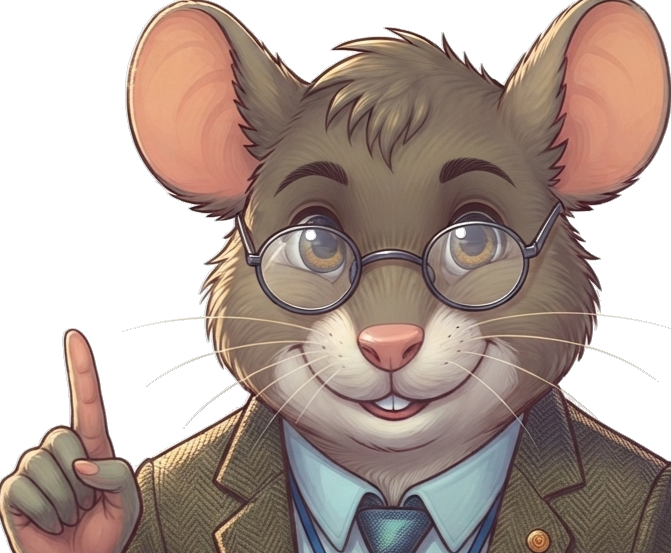
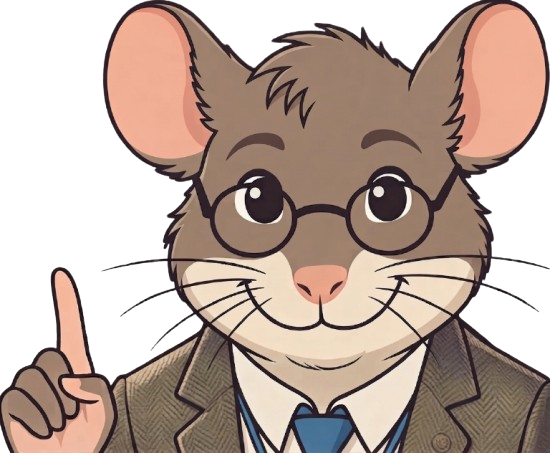
retoques

diff --git a/app/chat.py b/app/chat.py
@@ -16,6 +16,32 @@ from docx import Document as DocxDocument
 PROJECT_ROOT = Path(__file__).resolve().parents[1]
 CONFIG_FILE = PROJECT_ROOT / "app" / "user_config.json"
 USER_AVATAR_PATH = PROJECT_ROOT / "app" / "user_avatar.png"
+HISTORY_DIR = PROJECT_ROOT / "app" / "historial"
+HISTORY_DIR.mkdir(exist_ok=True)
+
+def save_conversation(conv_id, messages):
+    """Guarda una conversación en un archivo JSON."""
+    file_path = HISTORY_DIR / f"{conv_id}.json"
+    with open(file_path, "w", encoding="utf-8") as f:
+        json.dump(messages, f, ensure_ascii=False, indent=4)
+
+def load_conversation(conv_id):
+    """Carga una conversación desde un archivo JSON."""
+    file_path = HISTORY_DIR / f"{conv_id}.json"
+    if file_path.exists():
+        with open(file_path, "r", encoding="utf-8") as f:
+            return json.load(f)
+    return []
+
+def list_conversations():
+    """Lista los IDs de las conversaciones guardadas."""
+    return sorted([f.stem for f in HISTORY_DIR.glob("*.json")], reverse=True)
+
+def delete_conversation(conv_id):
+    """Elimina una conversación guardada."""
+    file_path = HISTORY_DIR / f"{conv_id}.json"
+    if file_path.exists():
+        file_path.unlink()
 
 def save_user_profile(profile):
     """Guarda el perfil del usuario en un archivo JSON local."""
@@ -307,6 +333,24 @@ def main():
             fill: var(--accent) !important;
         }
 
+        /* AVATARES MÁS GRANDES */
+        [data-testid="stChatMessageAvatar"] {
+            width: 80px !important;
+            height: 80px !important;
+            border-radius: 12px !important;
+            background: var(--bg-card) !important;
+            border: 1px solid var(--border) !important;
+        }
+        [data-testid="stChatMessageAvatar"] img, [data-testid="stChatMessageAvatar"] div {
+            width: 80px !important;
+            height: 80px !important;
+            object-fit: cover !important;
+        }
+        [data-testid="stChatMessage"] {
+            padding-top: 2rem !important;
+            padding-bottom: 2rem !important;
+        }
+
         /* Contenedores y Layout */
         [data-testid="stAppViewContainer"] { height: 100vh; overflow: hidden; }
         .main .block-container {
@@ -370,12 +414,14 @@ def main():
     if "messages" not in st.session_state or not st.session_state.messages:
         st.session_state.messages = [{
             "role": "assistant",
-            "content": "✨ ¡Hola! Soy tu Asistente SMR Krayon. Recuerda: *'La mejor forma de predecir el futuro es inventándolo'*. Estoy aquí para ayudarte a dominar tus apuntes. ¿Por dónde empezamos hoy? 🚀"
+            "content": "✨ ¡Hola! Soy tu Well, Actually. Recuerda: *'La mejor forma de predecir el futuro es inventándolo'*. Estoy aquí para ayudarte a dominar tus apuntes. ¿Por dónde empezamos hoy? 🚀"
         }]
 
     if "active_mentions" not in st.session_state: st.session_state.active_mentions = []
     if "active_tab" not in st.session_state: st.session_state.active_tab = "explorer"
     if "chat_key" not in st.session_state: st.session_state.chat_key = 0
+    if "current_conv_id" not in st.session_state:
+        st.session_state.current_conv_id = time.strftime("%Y%m%d_%H%M%S")
 
     # Perfil del usuario persistente
     if "user_profile" not in st.session_state:
@@ -404,6 +450,7 @@ def main():
         col_i, col_c = st.columns([1.2, 3.8])
         with col_i:
             if st.button("📁", key="b1", help="Explorador"): st.session_state.active_tab = "explorer"
+            if st.button("💬", key="b_chat", help="Historial"): st.session_state.active_tab = "history"
             if st.button("⚙", key="b2", help="Sistema"): st.session_state.active_tab = "system"
             if st.button("👤", key="b3", help="Perfil"): st.session_state.active_tab = "profile"
             st.markdown("<br><br>", unsafe_allow_html=True)
@@ -419,6 +466,38 @@ def main():
                             st.session_state.active_mentions = [f"@{f}"]
                 else:
                     st.caption("Carpeta vacía")
+
+            elif st.session_state.active_tab == "history":
+                st.markdown("💬 **HISTORIAL**")
+                if st.button("➕ Nueva Conversación", use_container_width=True):
+                    st.session_state.current_conv_id = time.strftime("%Y%m%d_%H%M%S")
+                    st.session_state.messages = [{
+                        "role": "assistant",
+                        "content": "✨ ¡Hola! Nueva conversación iniciada. ¿En qué puedo ayudarte?"
+                    }]
+                    st.session_state.chat_key += 1
+                    st.rerun()
+
+                st.divider()
+                convs = list_conversations()
+                if convs:
+                    for c_id in convs:
+                        col_text, col_del = st.columns([0.8, 0.2])
+                        # Formatear fecha para mostrar
+                        display_name = c_id.replace("_", " ")
+                        if col_text.button(f" {display_name}", key=f"conv_{c_id}", use_container_width=True):
+                            st.session_state.current_conv_id = c_id
+                            st.session_state.messages = load_conversation(c_id)
+                            st.session_state.chat_key += 1
+                            st.rerun()
+                        if col_del.button("🗑", key=f"del_{c_id}"):
+                            delete_conversation(c_id)
+                            if st.session_state.current_conv_id == c_id:
+                                st.session_state.current_conv_id = time.strftime("%Y%m%d_%H%M%S")
+                                st.session_state.messages = []
+                            st.rerun()
+                else:
+                    st.caption("No hay chats guardados.")
 
             elif st.session_state.active_tab == "profile":
                 st.markdown("👤 **MI PERFIL**")
@@ -534,12 +613,24 @@ def main():
 
             if query:
                 st.session_state.messages.append({"role": "user", "content": query})
+                save_conversation(st.session_state.current_conv_id, st.session_state.messages)
 
                 # --- RESPUESTA RÁPIDA A SALUDOS (Ahorro de cuota) ---
                 saludos = ["hola", "buenas", "buenos dias", "buenas tardes", "hola!", "hola?", "ey", "hi", "hello"]
-                if query.lower().strip().strip("!").strip("?") in saludos:
-                    res_hola = "¡Hola! 👋 Soy tu Asistente SMR Krayon. Estoy listo para ayudarte con tus apuntes. ¿Qué quieres repasar hoy?"
+                user_name = st.session_state.user_profile.get("name", "Estudiante")
+
+                query_clean = query.lower().strip().strip("!").strip("?")
+
+                if query_clean in saludos:
+                    res_hola = f"¡Hola, {user_name}! 👋 Soy tu Well, Actually. Estoy listo para ayudarte con tus apuntes. ¿Qué quieres repasar hoy?"
                     st.session_state.messages.append({"role": "assistant", "content": res_hola})
+                    save_conversation(st.session_state.current_conv_id, st.session_state.messages)
+                    st.rerun()
+
+                if "mi nombre" in query_clean or "como me llamo" in query_clean or "quien soy" in query_clean:
+                    res_name = f"Te llamas **{user_name}**. ¡Un placer saludarte de nuevo! 😊 ¿Necesitas ayuda con algún tema de SMR?"
+                    st.session_state.messages.append({"role": "assistant", "content": res_name})
+                    save_conversation(st.session_state.current_conv_id, st.session_state.messages)
                     st.rerun()
 
                 # --- DETECCIÓN DE RESPUESTA A PREGUNTA DE INTERNET ---
@@ -555,6 +646,7 @@ def main():
                                         response = Settings.llm.complete(gen_prompt)
                                         st.markdown(str(response))
                                         st.session_state.messages.append({"role": "assistant", "content": str(response)})
+                                        save_conversation(st.session_state.current_conv_id, st.session_state.messages)
                                         st.session_state.internet_query = None
                                         st.rerun()
                                     except Exception as e: st.error(f"Error en internet: {e}")
@@ -618,15 +710,25 @@ def main():
                                         st.info("Ve a **Sistema (⚙)** -> **Re-indexar Lite** para activarlo.")
                                         st.stop()
 
+                                # Generar contexto del historial (memoria)
+                                history_str = ""
+                                if len(st.session_state.messages) > 1:
+                                    # Tomamos los últimos 6 mensajes para no saturar la cuota
+                                    last_msgs = st.session_state.messages[-7:-1]
+                                    history_str = "\n".join([f"{m['role'].upper()}: {m['content']}" for m in last_msgs])
+
                                 qa_prompt = PromptTemplate(
-                                    "Eres el Asistente SMR Krayon, experto en Sistemas Microinformáticos y Redes. "
-                                    "Tu misión es ayudar al alumno usando los APUNTES proporcionados.\n\n"
+                                    "Eres el Well, Actually, experto en Sistemas Microinformáticos y Redes. "
+                                    "Tu misión es ayudar al alumno usando los APUNTES proporcionados y recordando la CONVERSACIÓN ACTUAL.\n\n"
+                                    "HISTORIAL DE LA CONVERSACIÓN:\n"
+                                    f"{history_str}\n\n"
                                     "REGLAS:\n"
-                                    "1. Usa el CONTEXTO de abajo para responder.\n"
-                                    "2. Si el usuario pide un 'resumen', analiza todo el contexto y destaca los puntos clave.\n"
-                                    "3. Si realmente no hay nada de información sobre el tema, di: 'NO_DATA'.\n\n"
+                                    "1. Usa el CONTEXTO de los apuntes para temas técnicos.\n"
+                                    "2. Usa el HISTORIAL para responder preguntas sobre la charla (ej: '¿qué te pregunté antes?').\n"
+                                    "3. Si el usuario pregunta algo personal que ya dijo (nombre, etc), responde usando el historial.\n"
+                                    "4. Si realmente no hay información en ningún sitio, di: 'NO_DATA'.\n\n"
                                     "CONTEXTO DE LOS APUNTES:\n{context_str}\n\n"
-                                    "PREGUNTA DEL ALUMNO: {query_str}"
+                                    "PREGUNTA ACTUAL DEL ALUMNO: {query_str}"
                                 )
 
                                 # Aumentamos la calidad ahorrando tokens (top_k=6 con texto limpio)
@@ -650,7 +752,7 @@ def main():
                                 except Exception as ai_err:
                                     err_msg = str(ai_err).upper()
                                     if any(x in err_msg for x in ["503", "429", "RESOURCE_EXHAUSTED", "LIMIT"]):
-                                        answer = "⚠ **Servidor saturado o cuota agotada.**\n\nHe localizado los documentos relevantes. Échales un vistazo en el visor."
+                                        answer = "⚠ **La IA está tomando un respiro (Cuota agotada).**\n\nComo acabamos de procesar muchos documentos, Google nos pide esperar unos segundos. Inténtalo de nuevo en un momento o consulta los documentos directamente en el visor."
                                         retriever = idx.as_retriever(similarity_top_k=3, filters=f_filter)
                                         sources_nodes = retriever.retrieve(query)
                                     else:
@@ -665,9 +767,19 @@ def main():
                                 else:
                                     st.markdown(answer)
                                     st.session_state.messages.append({"role": "assistant", "content": answer})
+                                    save_conversation(st.session_state.current_conv_id, st.session_state.messages)
 
                                     if sources_nodes and st.session_state.user_profile.get("auto_view", True):
-                                        if f_filter is not None or (len(query) > 20 and "hola" not in query.lower()):
+                                        # Inteligencia: No abrir archivos si es una pregunta sobre la charla o personal
+                                        chat_keywords = [
+                                            "te pregunté", "te preguntaste", "dije antes", "mi nombre",
+                                            "quien soy", "hola", "gracias", "adios", "chao", "que tal",
+                                            "recordar", "memoria", "conversacion", "chat"
+                                        ]
+                                        is_chat_query = any(kw in query.lower() for kw in chat_keywords)
+
+                                        # Solo auto-visualizar si es una pregunta técnica real (larga o con filtro)
+                                        if not is_chat_query and (f_filter is not None or len(query) > 25):
                                             m = sources_nodes[0].metadata
                                             st.session_state.selected_doc = {"source": m["source"], "metadata": m}
                                             st.rerun()
